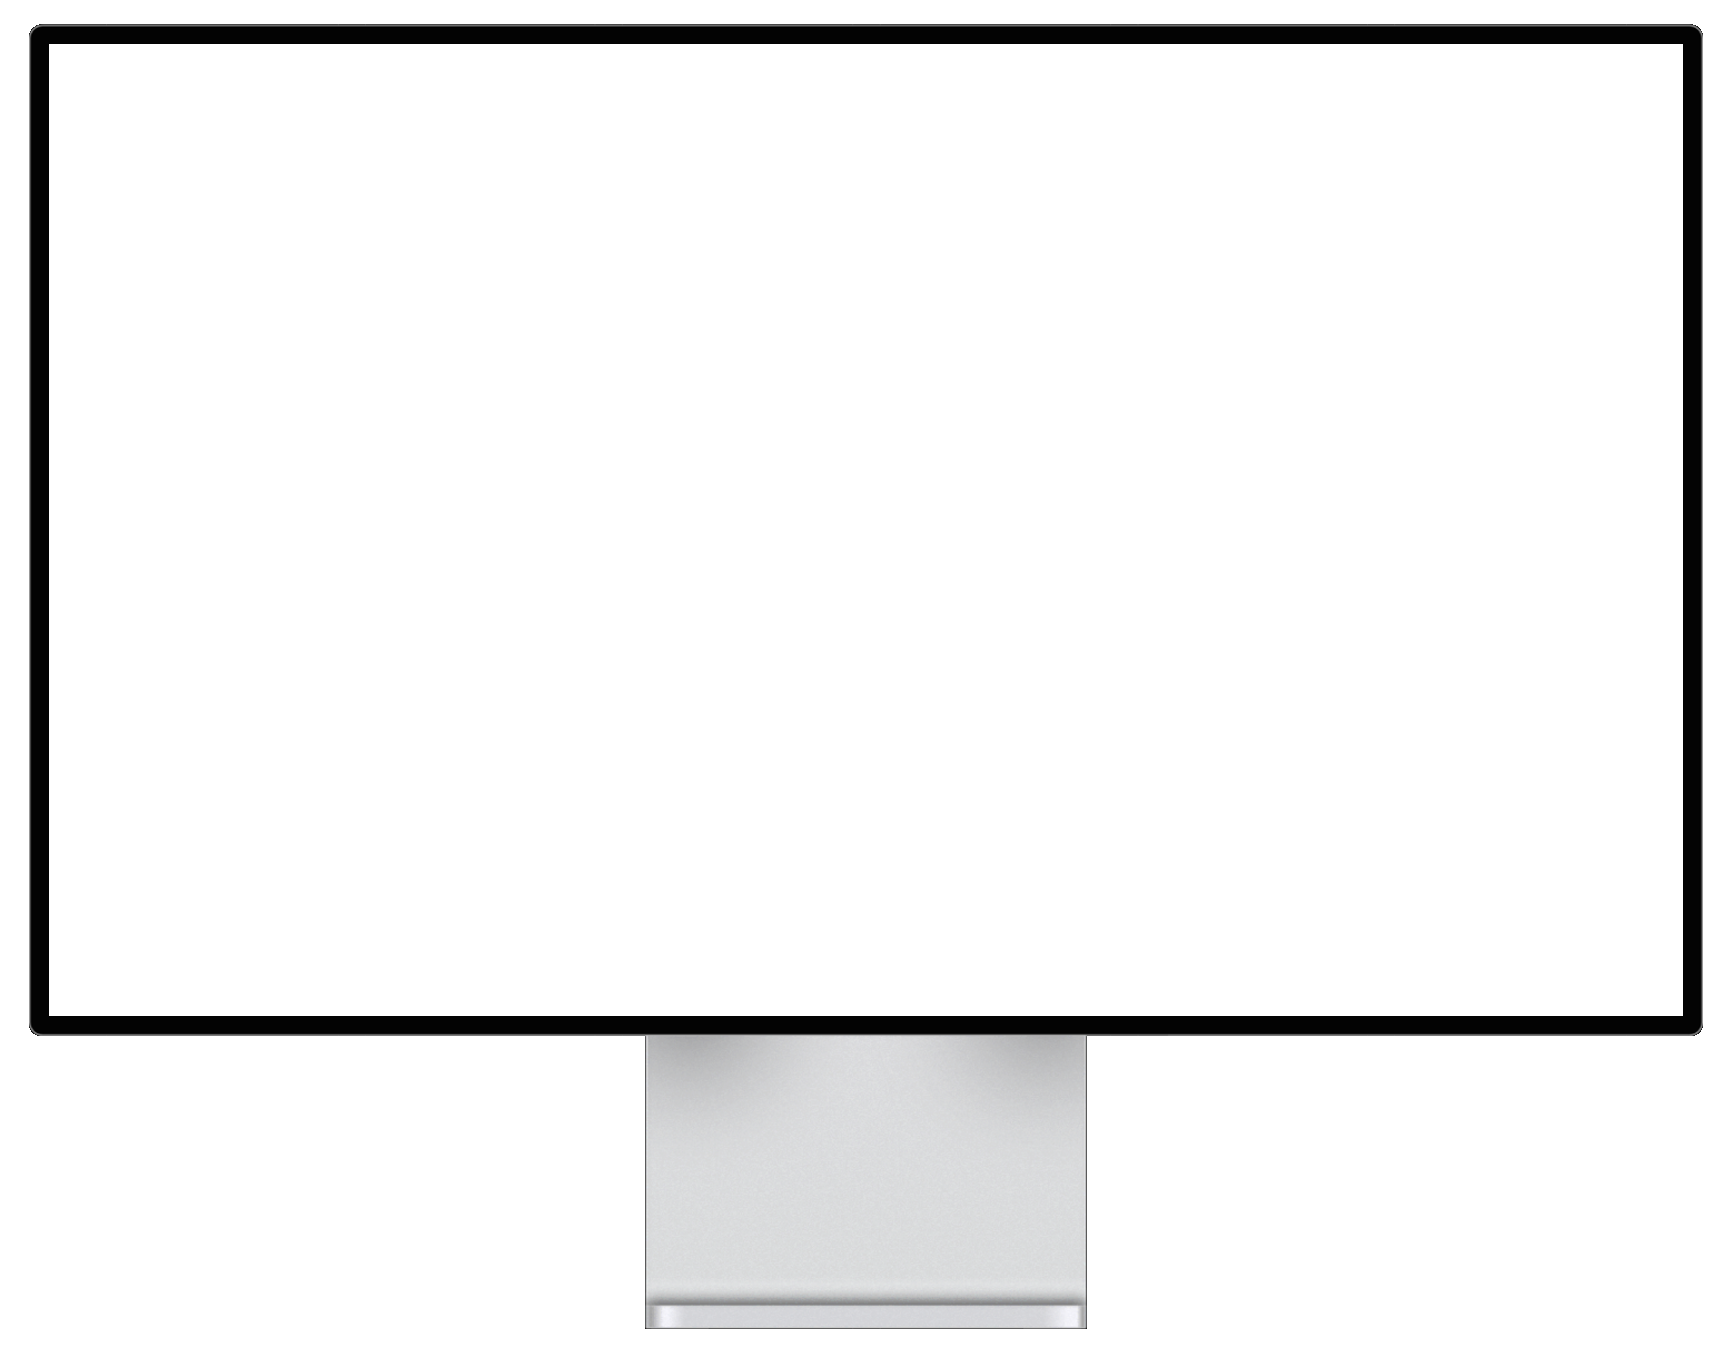
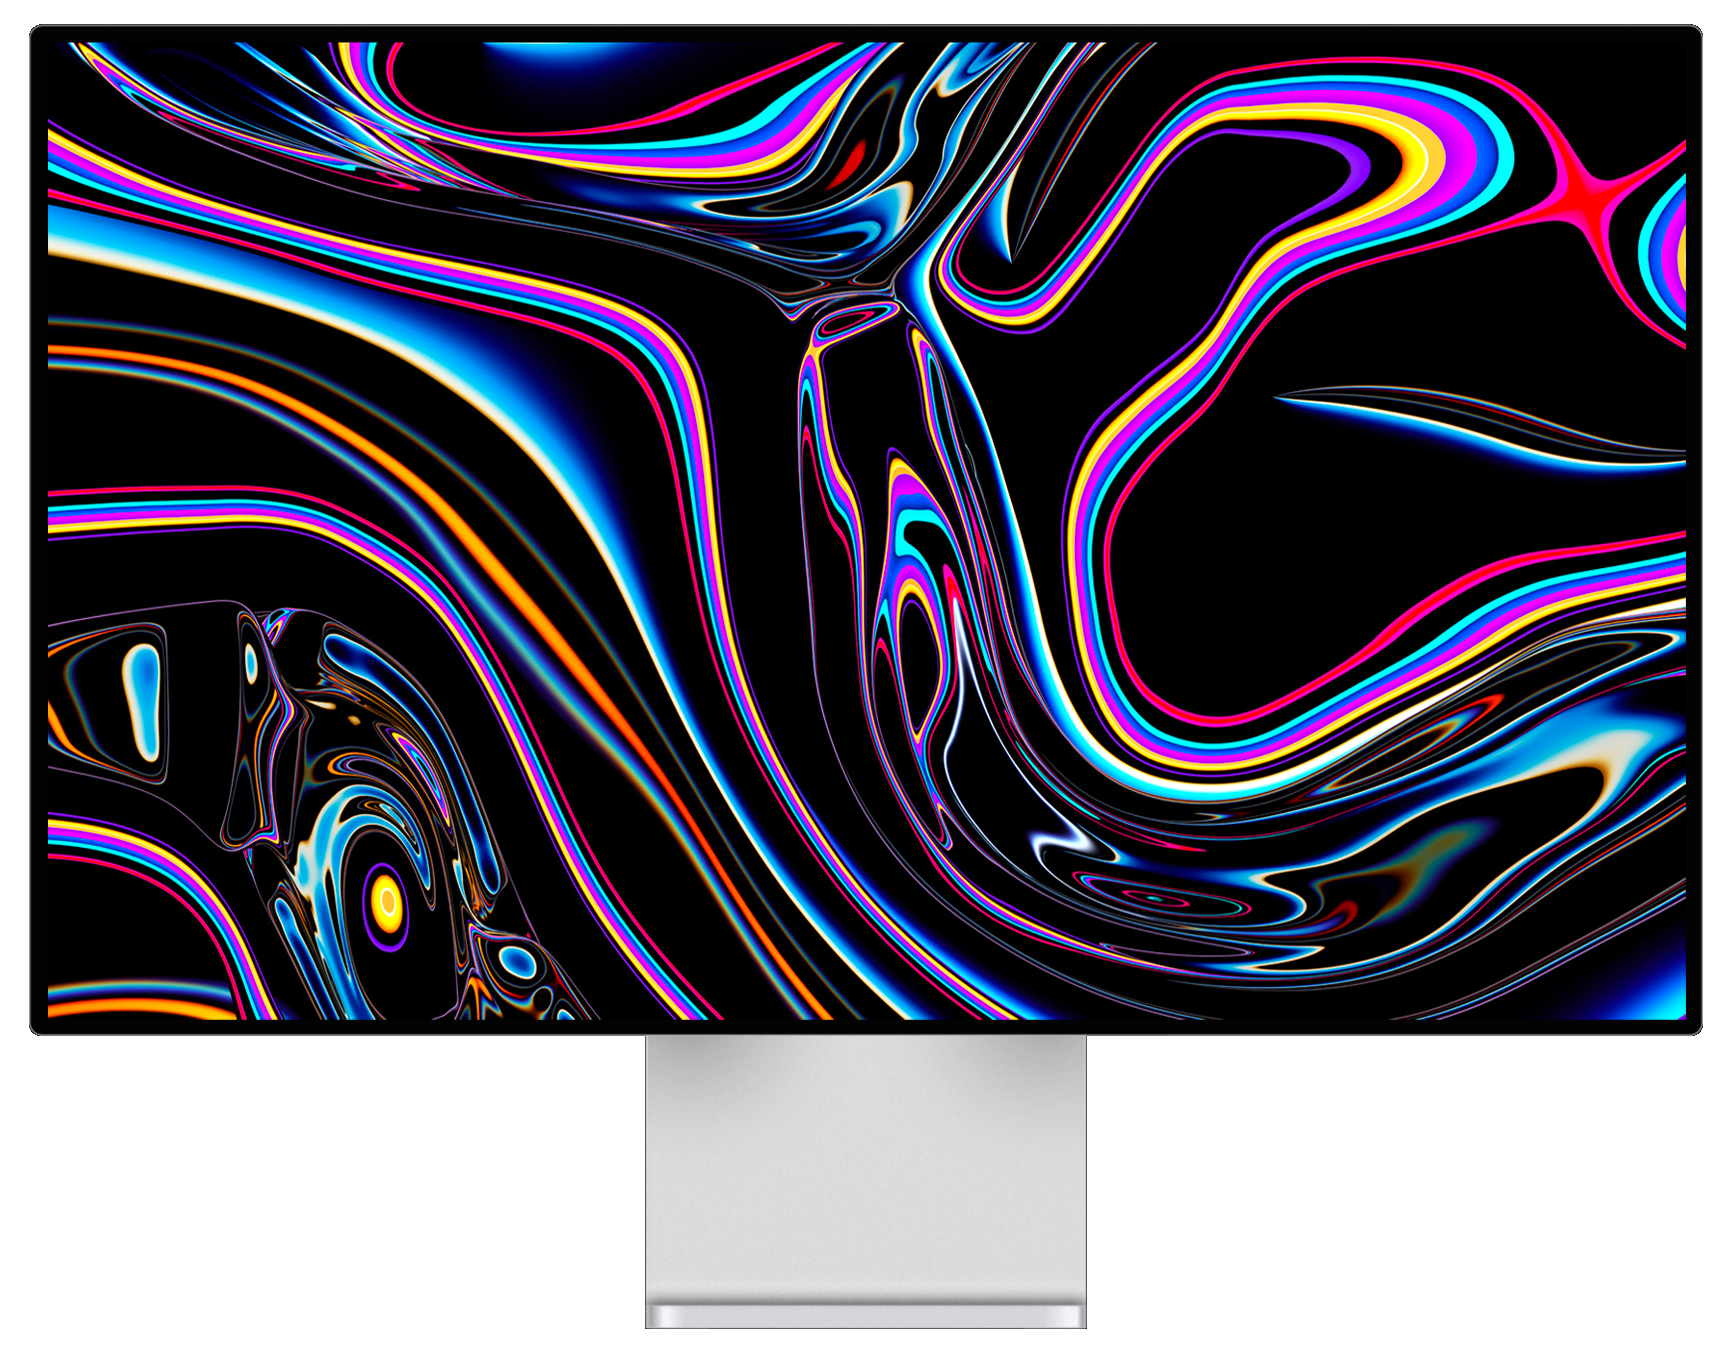
added monitor capability with a flexbox surrounding the entire content grid max width 1500 px

diff --git a/index.html b/index.html
@@ -38,6 +38,7 @@
 
 
     <!-- About Me Page -->
+<div class="page-wrapper">
 
     <div class="intro-container">
         <div class="about-intro">
@@ -83,15 +84,6 @@
                     people's lives holistically through emotion, functionality, and aesthetics.
                 </p>
 
-                <p>
-                    Lorem ipsum dolor, sit amet consectetur adipisicing elit. Quo reiciendis unde nihil repellat modi
-                    praesentium, voluptas iure minus libero sed facilis accusantium officia debitis quae aut.
-                    Voluptatibus similique reprehenderit veniam. Lorem ipsum dolor, sit amet consectetur adipisicing
-                    elit. Doloremque, delectus est magni minima ipsa veniam totam fugiat facilis exercitationem, eveniet
-                    nihil et consequatur quos unde voluptas fuga sed ut ipsum? Lorem ipsum, dolor sit amet consectetur
-                    adipisicing elit. Iusto eos iure ea corrupti non, doloribus, obcaecati quia, ad veniam sit quis
-                    incidunt assumenda. Odit tempore dicta ab consequuntur nihil ratione?
-                </p>
             </div>
         </div>
     </div>
@@ -137,6 +129,7 @@
     <section class="scroll-container">
         <div class="holder scroll-img">
             <img src="images/iMac.png" class="scalable-image" alt="Scalable Image">
+            <!-- <img id="iMacpaper" src="images/xdrwallpaper.gif" class="scalable-image" alt="Scalable Image"> -->
         </div>
 
         <div class="more-textgrid">
@@ -154,6 +147,7 @@
 
     <div class="content-divider" id="scrolldivider"> Thank You </div>
 
+</div>
 
 
 

diff --git a/style.css b/style.css
@@ -30,6 +30,16 @@ body {
 }
 
 
+.page-wrapper {
+    display: flex;
+    flex-direction: column;
+    /* margin-left: 80px;  */
+    padding: 0 0px; /* Add some horizontal padding */
+    max-width: 1500px; /* Limit width for monitors */
+    margin-right: auto;
+    margin-left: auto; 
+}
+
 /* Navbar */
 
 
@@ -111,6 +121,7 @@ img {
 
 .nav {
     z-index: 999;
+    position: fixed;
     width: 80px;
     height: 100%;
     flex-direction: column;
@@ -219,12 +230,12 @@ a:hover {
 
 .about-subtitle {
     text-align: center;
-    margin-top: 150px;
-    font-size: 250px;
+    margin-top: 100px;
+    font-size: 200px;
     font-weight: 400;
     color: darkgreen;
     letter-spacing: 0.5px;
-    transition: color .6s
+    transition: color .6s;
 }
 
 .about-subtitle:hover {
@@ -271,6 +282,7 @@ a:hover {
 
 .image {
     width: 100%;
+    max-width: 600px;
     height: auto;
     object-fit: cover;
     border-radius: 8px;
@@ -514,6 +526,9 @@ a:hover {
     transition: transform 0.1s ease-out;
 }
 
+#iMacpaper {
+
+}
 
 .more-textgrid {
     height: "";

diff --git a/script.js b/script.js
@@ -23,7 +23,7 @@ document.addEventListener('DOMContentLoaded', () => {
             // Dynamically adjust text position below the scaled image
             const scaledHeight = holder.offsetHeight * scale; // Height of the scaled image
             text.style.top = `${holder.offsetTop + scaledHeight + 30}px`; // Position text
-            text.style.opacity = '0'; // Keep it hidden while scaling
+            text.style.opacity = '1'; // Keep it hidden while scaling
         } else if (scrollTop >= stop) {
             image.style.transform = `scale(0.6)`; // Final scaled state
 
